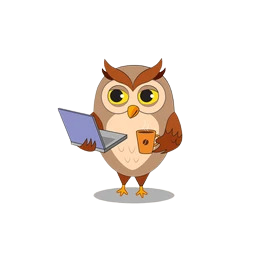
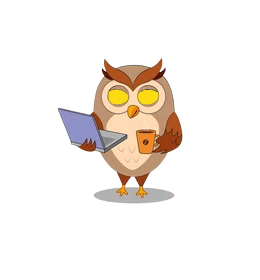
developed all components

Changed region(s): [[0.5231, 0.3143, 0.6154, 0.3714], [0.4, 0.3143, 0.4923, 0.3714]]

diff --git a/src/app/socials/socials.component.html b/src/app/socials/socials.component.html
@@ -1,19 +1,39 @@
 <section class="socials">
   <ul class="socials__ul">
     <div class="social__ul__li">
-      <a class="social__ul__li__a" href="#">-Instagram</a>
+      <a
+        class="social__ul__li__a"
+        href="https://www.instagram.com/fakhri.mouelhi/"
+        target="_blank"
+        >Instagram</a
+      >
     </div>
     <div class="social__ul__li">
-      <a class="social__ul__li__a" href="#">-Facebook</a>
+      <a
+        class="social__ul__li__a"
+        href="https://www.facebook.com/profile.php?id=100084114835287"
+        target="_blank"
+        >Facebook</a
+      >
     </div>
     <div class="social__ul__li">
-      <a class="social__ul__li__a" href="#">-Linkedin</a>
+      <a
+        class="social__ul__li__a"
+        href="https://www.linkedin.com/in/mouelhi-mohamed-fakhreddine-516b60242/"
+        target="_blank"
+        >Linkedin</a
+      >
     </div>
     <div class="social__ul__li">
-      <a class="social__ul__li__a" href="#">-Github</a>
+      <a
+        class="social__ul__li__a"
+        href="https://github.com/Mangetsu0000"
+        target="_blank"
+        >Github</a
+      >
     </div>
     <div class="social__ul__li">
-      <a class="social__ul__li__a" href="#">-Resume</a>
+      <a class="social__ul__li__a" href="#" target="_blank">Resume</a>
     </div>
   </ul>
 </section>

diff --git a/src/app/proximity-owl/proximity-owl.component.ts b/src/app/proximity-owl/proximity-owl.component.ts
@@ -1,0 +1,35 @@
+import { Component, OnInit } from '@angular/core';
+
+@Component({
+  selector: 'app-proximity-owl',
+  templateUrl: './proximity-owl.component.html',
+  styleUrls: ['./proximity-owl.component.scss'],
+})
+export class ProximityOwlComponent implements OnInit {
+  constructor() {}
+
+  ngOnInit(): void {
+    document.addEventListener('mousemove', (e) => {
+      const anchor = document.getElementById('owl__anchor');
+      if (anchor) {
+        const mouseX = e.clientX;
+        const mouseY = e.clientY;
+        const rekt = anchor.getBoundingClientRect();
+        const anchorX = rekt.left + rekt.width / 2;
+        const anchorY = rekt.top + rekt.height / 2;
+        const angleDeg = angle(anchorX, anchorY, mouseX, mouseY);
+        const eyes = document.querySelectorAll<HTMLElement>('.eye');
+        eyes.forEach((eye) => {
+          eye.style.transform = `rotate(${90 + angleDeg}deg)`;
+        });
+      }
+      function angle(cx: number, cy: number, ex: number, ey: number) {
+        const dy = ey - cy;
+        const dx = ex - cx;
+        const rad = Math.atan2(dy, dx);
+        const deg = (rad * 180) / Math.PI;
+        return deg;
+      }
+    });
+  }
+}

diff --git a/src/app/header/header.component.scss b/src/app/header/header.component.scss
@@ -19,13 +19,24 @@
     align-items: flex-start;
     gap: 2rem;
     .header__txt__h1 {
-      font-size: 3rem;
+      z-index: 99;
+      font-weight: 900;
+      font-size: 2.8rem;
       line-height: 1.8em;
-      color: txt-color(heading);
+      color: txt-color(accent);
+      .header__txt__h1__span {
+        position: absolute;
+        left: 436px;
+        top: 125px;
+        color: txt-color(dark);
+        font-weight: 300;
+        font-size: 1.1rem;
+      }
     }
     .header__text__p {
       font-size: 1.1rem;
       line-height: 1.5em;
+      color: txt-color(heading);
     }
     .header__text__a {
       text-decoration: none;
@@ -49,7 +60,19 @@
     }
     .header__txt {
       .header__txt__h1 {
+        font-size: 2.3rem;
         text-align: center;
+        line-height: 1.3em;
+        margin-bottom: 10px;
+        .header__txt__h1__span {
+          position: absolute;
+          left: 136px;
+          top: 400px;
+        }
+      }
+      .header__text__p {
+        font-size: 1rem;
+        line-height: 1.5em;
       }
     }
   }

diff --git a/src/app/services/data.service.ts b/src/app/services/data.service.ts
@@ -31,18 +31,17 @@ export class DataService {
         title: 'Full Stack Developer | Bank of Tunisia',
         date: '10/5/2022 | present',
         briefing:
-          'Developing a network admin branch management system web application for the bank of Tunisia.',
+          'Developing a branch networking management system application.',
       },
       {
         title: 'Full Stack Developer | Bank of Tunisia',
         date: '10/1/2022 | 10/30/2022',
-        briefing:
-          'Developed a WAN monitoring interface for the bank of Tunisia.',
+        briefing: 'Developed a WAN monitoring interface.',
       },
       {
         title: 'Front End Developer | Hortensia Agency',
         date: '6/2/2021 | 8/30/2021',
-        briefing: 'Developed front interfaces using angular.',
+        briefing: 'Developed user interfaces using angular.',
       },
     ];
   }

diff --git a/src/app/app.module.ts b/src/app/app.module.ts
@@ -12,6 +12,7 @@ import { LanguagesToolsComponent } from './languages-tools/languages-tools.compo
 import { EducationComponent } from './education/education.component';
 import { DiplomaComponent } from './education/diploma/diploma.component';
 import { InternshipComponent } from './experience/internship/internship.component';
+import { ProximityOwlComponent } from './proximity-owl/proximity-owl.component';
 
 @NgModule({
   declarations: [
@@ -25,6 +26,7 @@ import { InternshipComponent } from './experience/internship/internship.componen
     EducationComponent,
     DiplomaComponent,
     InternshipComponent,
+    ProximityOwlComponent,
   ],
   imports: [BrowserModule, AppRoutingModule],
   providers: [],

diff --git a/src/app/education/diploma/diploma.component.scss b/src/app/education/diploma/diploma.component.scss
@@ -9,10 +9,10 @@
   gap: 20px;
   padding: 10px;
   margin: 50px 0;
-  border-left: 3px solid #2b3031;
+  border-left: 2px solid #2b3031;
   .diploma__hl {
     height: 2px;
-    width: 100%;
+    width: 105%;
     background-color: #2b3031;
     transform: translate(-20px);
   }
@@ -23,6 +23,7 @@
     color: txt-color(heading);
   }
   .diploma__date {
+    color: txt-color(accent);
     margin-left: 2.8rem;
     font-size: 0.9rem;
     font-weight: bold;
@@ -36,9 +37,11 @@
 @media (max-width: 768px) {
   .diploma {
     .diploma__h1 {
-      font-size: 1.3rem;
+      font-size: 1.1rem;
     }
-
+    .diploma__date {
+      font-size: 0.8rem;
+    }
     .diploma__p {
       font-size: 0.9rem;
     }

diff --git a/src/app/header/header.component.html b/src/app/header/header.component.html
@@ -1,10 +1,14 @@
 <header class="header">
   <img src="../assets/me.jpg" alt="" class="header__img" />
   <div class="header__txt">
-    <h1 class="header__txt__h1">Mouelhi Mohamed Fakhreddine</h1>
+    <h1 class="header__txt__h1">
+      Mouelhi Mohamed Fakhreddine
+      <span class="header__txt__h1__span">(junior web developer)</span>
+    </h1>
     <p class="header__text__p">
       Senior software engineering student, tutor, web development and art
-      enthusiast. Always eager to learn new stuff and hone my skills.
+      enthusiast. Always eager to learn new stuff and hone my skills. Owl is my
+      spirit animal.
     </p>
   </div>
 </header>

diff --git a/src/index.html b/src/index.html
@@ -2,10 +2,10 @@
 <html lang="en">
   <head>
     <meta charset="utf-8" />
-    <title>MangetsuPortfolio</title>
+    <title>Mouelhi.M.F | Portfolio</title>
     <base href="/" />
     <meta name="viewport" content="width=device-width, initial-scale=1" />
-    <link rel="icon" type="image/x-icon" href="favicon.ico" />
+    <link rel="icon" type="image/x-icon" href="assets/icon.png" />
     <link
       rel="stylesheet"
       href="https://cdnjs.cloudflare.com/ajax/libs/font-awesome/6.1.2/css/all.min.css"

diff --git a/src/app/app.component.html b/src/app/app.component.html
@@ -1,9 +1,10 @@
 <div class="container">
   <app-header></app-header>
   <app-socials></app-socials>
-  <app-skills></app-skills>
+  <app-proximity-owl></app-proximity-owl>
+  <app-languages-tools class="hidden"></app-languages-tools>
   <app-education class="hidden"></app-education>
   <app-experience class="hidden"></app-experience>
-  <app-languages-tools class="hidden"></app-languages-tools>
+  <app-skills></app-skills>
   <app-footer></app-footer>
 </div>

diff --git a/src/app/socials/socials.component.scss b/src/app/socials/socials.component.scss
@@ -1,3 +1,4 @@
+@import "src/mixin.scss";
 .socials {
   margin-top: 0;
   padding: 15px 5px;
@@ -17,7 +18,8 @@
         color: #adb0b1;
         text-decoration: none;
         &:hover {
-          color: #fff;
+          color: txt-color(accent);
+          transition: color 0.4s ease-in-out;
         }
       }
     }
@@ -25,6 +27,6 @@
 }
 @media (max-width: 768px) {
   .social__ul__li__a {
-    font-size: 0.9rem;
+    font-size: 0.76rem;
   }
 }

diff --git a/src/app/experience/internship/internship.component.scss b/src/app/experience/internship/internship.component.scss
@@ -23,6 +23,7 @@
     font-weight: bold;
   }
   .internship__date {
+    color: txt-color(accent);
     margin-left: 2.8rem;
     font-size: 0.9rem;
     font-weight: bold;
@@ -36,9 +37,11 @@
 @media (max-width: 768px) {
   .internship {
     .internship__h1 {
-      font-size: 1.3rem;
+      font-size: 1.1rem;
     }
-
+    .internship__date {
+      font-size: 0.8rem;
+    }
     .internship__p {
       font-size: 0.9rem;
     }

diff --git a/src/app/skills/skills.component.scss b/src/app/skills/skills.component.scss
@@ -30,12 +30,14 @@ section {
     align-items: center;
     flex: 1;
     .rating__full {
-      background-color: #f1c40f;
+      margin-left: 2px;
+      background-color: bgc-color(accent);
       height: 15px;
       width: 15px;
       border-radius: 50%;
     }
     .rating__blank {
+      margin-left: 2px;
       background-color: #c3c3c3;
       height: 15px;
       width: 15px;
